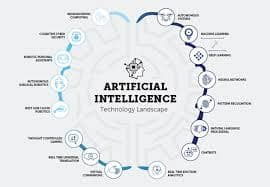
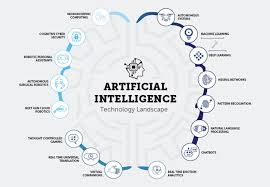
Site updated: 2024-12-03 21:07:36

diff --git a/2024/12/02/人工智能复习/index.html b/2024/12/02/人工智能复习/index.html
@@ -26,12 +26,12 @@
 <meta property="og:site_name" content="TAM CHEOK HANG">
 <meta property="og:description" content="这是本人在大二下考试前总结的内容，希望对大家有所帮助！">
 <meta property="og:locale" content="en_US">
-<meta property="og:image" content="https://tobytam23.github.io/img/1.png">
+<meta property="og:image" content="https://tobytam23.github.io/img/artificial_intelligence_compressed.jpg">
 <meta property="article:published_time" content="2024-12-02T14:45:00.000Z">
-<meta property="article:modified_time" content="2024-12-03T08:49:51.285Z">
+<meta property="article:modified_time" content="2024-12-03T13:07:19.976Z">
 <meta property="article:author" content="tanzhuoheng">
 <meta name="twitter:card" content="summary_large_image">
-<meta name="twitter:image" content="https://tobytam23.github.io/img/1.png">
+<meta name="twitter:image" content="https://tobytam23.github.io/img/artificial_intelligence_compressed.jpg">
   
   
   
@@ -525,7 +525,7 @@
 <li>定义：假设对方能总是做出最优的行动，己方总是做出能最小化对方获得的收益的行动，通过最小化对方的收益，可以最大化己方的收益。</li>
 <li>使用<strong>深度优先搜索</strong>。（模拟算法很重要）</li>
 </ol>
-<h4 id="剪枝"><a href="#剪枝" class="headerlink" title="剪枝"></a>剪枝</h4><p>只要计算节点n的一部分子节点就可以确定在<code>MiniMax</code>算法中我们不会考虑走到节点n了；如果已经确定节点n不会被考虑，那么也就不用继续计算n的子节点了。如下图：<code>x</code>和<code>y</code>已经不用被搜索了。<img src="/2024/12/02/%E4%BA%BA%E5%B7%A5%E6%99%BA%E8%83%BD%E5%A4%8D%E4%B9%A0/12/02/人工智能复习/undefined" srcset="/img/loading.gif" lazyload alt="image-20240621191942772" style="zoom:67%;"></p>
+<h4 id="剪枝"><a href="#剪枝" class="headerlink" title="剪枝"></a>剪枝</h4><p>只要计算节点n的一部分子节点就可以确定在<code>MiniMax</code>算法中我们不会考虑走到节点n了；如果已经确定节点n不会被考虑，那么也就不用继续计算n的子节点了。如下图：<code>x</code>和<code>y</code>已经不用被搜索了。<img src="/2024/12/02/人工智能复习/undefined" srcset="/img/loading.gif" lazyload alt="image-20240621191942772" style="zoom:67%;"></p>
 <ul>
 <li>MAX剪枝：对于Max节点n，如果它的α(子) ≥ β(父)的时候，就可以停止遍历n的子节点了。<img src="/2024/12/02/%E4%BA%BA%E5%B7%A5%E6%99%BA%E8%83%BD%E5%A4%8D%E4%B9%A0/Users\tam15\AppData\Roaming\Typora\typora-user-images\image-20240621192426769.png" srcset="/img/loading.gif" lazyload alt="image-20240621192426769"></li>
 <li>MIN剪枝：对于Min节点n，如果它的α(父) ≥ β(子)的时候，就可以停止遍历n的子节点了。<img src="/2024/12/02/%E4%BA%BA%E5%B7%A5%E6%99%BA%E8%83%BD%E5%A4%8D%E4%B9%A0/Users\tam15\AppData\Roaming\Typora\typora-user-images\image-20240621192631831.png" srcset="/img/loading.gif" lazyload alt="image-20240621192631831"></li>
@@ -613,11 +613,11 @@
 <li>极大似然法：就是先把式子列出来，然后对数，再对该式子求导并且等于0。<img src="/2024/12/02/%E4%BA%BA%E5%B7%A5%E6%99%BA%E8%83%BD%E5%A4%8D%E4%B9%A0/Users\tam15\AppData\Roaming\Typora\typora-user-images\image-20240623180513734.png" srcset="/img/loading.gif" lazyload alt="image-20240623180513734"></li>
 </ul>
 <h3 id="贝叶斯网络的D-分离"><a href="#贝叶斯网络的D-分离" class="headerlink" title="贝叶斯网络的D-分离"></a>贝叶斯网络的D-分离</h3><ul>
-<li><p>串形连接： 在串行连接中A通过事件B影响C，同样事件C也是用过事件B影响A。我们认为当<strong>证据B确定时</strong>，A、C条件独立。<img src="/2024/12/02/%E4%BA%BA%E5%B7%A5%E6%99%BA%E8%83%BD%E5%A4%8D%E4%B9%A0/12/02/人工智能复习" srcset="/img/loading.gif" lazyload alt="image-20200112230651132.png" style="zoom: 200%;"></p>
+<li><p>串形连接： 在串行连接中A通过事件B影响C，同样事件C也是用过事件B影响A。我们认为当<strong>证据B确定时</strong>，A、C条件独立。<img src="/2024/12/02/人工智能复习/" srcset="/img/loading.gif" lazyload alt="image-20200112230651132.png" style="zoom: 200%;"></p>
 </li>
-<li><p>共同的原因：<strong>给定父节点的前提下</strong>，子节点们条件独立。<img src="/2024/12/02/%E4%BA%BA%E5%B7%A5%E6%99%BA%E8%83%BD%E5%A4%8D%E4%B9%A0/12/02/人工智能复习" srcset="/img/loading.gif" lazyload alt="image-20200112231016234.png" style="zoom:200%;"></p>
+<li><p>共同的原因：<strong>给定父节点的前提下</strong>，子节点们条件独立。<img src="/2024/12/02/人工智能复习/" srcset="/img/loading.gif" lazyload alt="image-20200112231016234.png" style="zoom:200%;"></p>
 </li>
-<li><p>共同的作用：<strong>当不给定子节点时</strong>，父节点们条件独立。<img src="/2024/12/02/%E4%BA%BA%E5%B7%A5%E6%99%BA%E8%83%BD%E5%A4%8D%E4%B9%A0/12/02/人工智能复习" srcset="/img/loading.gif" lazyload alt="image-20200112231325308.png" style="zoom:200%;"></p>
+<li><p>共同的作用：<strong>当不给定子节点时</strong>，父节点们条件独立。<img src="/2024/12/02/人工智能复习/" srcset="/img/loading.gif" lazyload alt="image-20200112231325308.png" style="zoom:200%;"></p>
 </li>
 <li><p>若存在一条路径将这两个节点（直接）连通，则称这两个节点是<strong>相关</strong>的。若不存在这样的路径将这两个节 点连通，则这两个节点就是<strong>独立</strong>的。</p>
 </li>
@@ -664,7 +664,7 @@
 </li>
 </ol>
 </li>
-<li><p>分类图片如下：<img src="/2024/12/02/%E4%BA%BA%E5%B7%A5%E6%99%BA%E8%83%BD%E5%A4%8D%E4%B9%A0/12/02/人工智能复习/undefined" srcset="/img/loading.gif" lazyload alt="image-20240623210433383" style="zoom:67%;"></p>
+<li><p>分类图片如下：<img src="/2024/12/02/人工智能复习/undefined" srcset="/img/loading.gif" lazyload alt="image-20240623210433383" style="zoom:67%;"></p>
 </li>
 </ul>
 <h4 id="逻辑回归"><a href="#逻辑回归" class="headerlink" title="逻辑回归"></a>逻辑回归</h4><p>感知机算法只要计算的分数大于0输出标签为真，可是分数<strong>1</strong>和<strong>1000</strong>也是输出标签为真。</p>
@@ -697,14 +697,14 @@
 </li>
 </ul>
 <h4 id="人工神经网络"><a href="#人工神经网络" class="headerlink" title="人工神经网络"></a>人工神经网络</h4><h5 id="单层神经网络"><a href="#单层神经网络" class="headerlink" title="单层神经网络"></a>单层神经网络</h5><ul>
-<li>定义：一个基本的神经网络包括：<strong>输入</strong>、<strong>计算</strong>、<strong>输出</strong>。下图是一个典型的人工神经网络模型，它包含3个输入，1个 输出，以及2个计算功能。<img src="/2024/12/02/%E4%BA%BA%E5%B7%A5%E6%99%BA%E8%83%BD%E5%A4%8D%E4%B9%A0/12/02/人工智能复习/undefined" srcset="/img/loading.gif" lazyload alt="image-20240624000843701" style="zoom:67%;"></li>
+<li>定义：一个基本的神经网络包括：<strong>输入</strong>、<strong>计算</strong>、<strong>输出</strong>。下图是一个典型的人工神经网络模型，它包含3个输入，1个 输出，以及2个计算功能。<img src="/2024/12/02/人工智能复习/undefined" srcset="/img/loading.gif" lazyload alt="image-20240624000843701" style="zoom:67%;"></li>
 <li>人工神经元：人工神经网络中的计算单位。由下列部分组成：<ol>
 <li>输入信号xi</li>
 <li>一个激活层对输入信号乘上加权求和，神经元的激活层由加权输入的总和确定。</li>
 <li>一个阈值函数 f(x)，该函数通过确定激活是低于还是高于阈值来计算最终输出。</li>
 </ol>
 </li>
-<li>应用：可以实现“与”、“或”功能，可是不能处理异或。<img src="/2024/12/02/%E4%BA%BA%E5%B7%A5%E6%99%BA%E8%83%BD%E5%A4%8D%E4%B9%A0/12/02/人工智能复习/undefined" srcset="/img/loading.gif" lazyload alt="image-20240624002553421" style="zoom: 50%;"></li>
+<li>应用：可以实现“与”、“或”功能，可是不能处理异或。<img src="/2024/12/02/人工智能复习/undefined" srcset="/img/loading.gif" lazyload alt="image-20240624002553421" style="zoom: 50%;"></li>
 </ul>
 <h5 id="多层神经网络"><a href="#多层神经网络" class="headerlink" title="多层神经网络"></a>多层神经网络</h5><p>优势：单层神经网络只能处理线性问题，而两层神经网络可以无限逼近<strong>任意连续函数</strong>。面对复杂的非线性分类任务，带一个隐藏层的两层神经网络可以分类的很好。输入和输出节点之间的附加层称为<strong>隐藏层</strong>。</p>
 <p>原因：从输入层到隐藏层时， 数据发生了<strong>空间变换</strong>。这是因为输入层的阈值函数是<strong>非线性</strong>的，对数据进行了转换。</p>
@@ -721,7 +721,7 @@
 </li>
 </ol>
 <p>损失函数：定义为最小二乘法：<br>$$<br>E &#x3D; \frac{1}{2} e^2 &#x3D; \frac{1}{2} (T - O)^2<br>$$<br>为了使用梯度下降调整权重 wjk,我们首先计算在wjk 上误差E的偏导数：<br>$$<br>\begin{align*}<br>\frac{\partial E}{\partial w_{jk}} &amp;&#x3D; \frac{\partial E}{\partial e} \times \frac{\partial e}{\partial O_k} \times \frac{\partial O_k}{\partial w_{jk}} \<br>&amp;&#x3D; -\left( e \right) \times \left( O_k (1 - O_k) \right) \times \left( O_j \right) \<br>&amp;&#x3D; -(T_k - O_k) O_k (1 - O_k) O_j<br>\end{align*}<br>$$</p>
-<img src="/2024/12/02/%E4%BA%BA%E5%B7%A5%E6%99%BA%E8%83%BD%E5%A4%8D%E4%B9%A0/12/02/人工智能复习/undefined" srcset="/img/loading.gif" lazyload alt="image-20240624193053302" style="zoom:80%;">
+<img src="/2024/12/02/人工智能复习/undefined" srcset="/img/loading.gif" lazyload alt="image-20240624193053302" style="zoom:80%;">
 
 <p>前向传播输入：</p>
 <ul>
@@ -730,16 +730,16 @@
 </ul>
 <p>反向传播误差：</p>
 <ul>
-<li>对于<strong>输出层</strong>，定义误差为：<img src="/2024/12/02/%E4%BA%BA%E5%B7%A5%E6%99%BA%E8%83%BD%E5%A4%8D%E4%B9%A0/12/02/人工智能复习/undefined" srcset="/img/loading.gif" lazyload alt="image-20240624193737699" style="zoom:80%;"></li>
-<li>对于<strong>隐藏层</strong>，定义误差为：<img src="/2024/12/02/%E4%BA%BA%E5%B7%A5%E6%99%BA%E8%83%BD%E5%A4%8D%E4%B9%A0/12/02/人工智能复习/undefined" srcset="/img/loading.gif" lazyload alt="image-20240624193803486" style="zoom:80%;"></li>
-<li><strong>权重更新公式</strong>（利用梯度下降）：<img src="/2024/12/02/%E4%BA%BA%E5%B7%A5%E6%99%BA%E8%83%BD%E5%A4%8D%E4%B9%A0/12/02/人工智能复习/undefined" srcset="/img/loading.gif" lazyload alt="image-20240624193903303" style="zoom:80%;"></li>
+<li>对于<strong>输出层</strong>，定义误差为：<img src="/2024/12/02/人工智能复习/undefined" srcset="/img/loading.gif" lazyload alt="image-20240624193737699" style="zoom:80%;"></li>
+<li>对于<strong>隐藏层</strong>，定义误差为：<img src="/2024/12/02/人工智能复习/undefined" srcset="/img/loading.gif" lazyload alt="image-20240624193803486" style="zoom:80%;"></li>
+<li><strong>权重更新公式</strong>（利用梯度下降）：<img src="/2024/12/02/人工智能复习/undefined" srcset="/img/loading.gif" lazyload alt="image-20240624193903303" style="zoom:80%;"></li>
 <li>缺点：很容易梯度消失，每传递一层梯度就是原本的0.25倍。</li>
-<li><a target="_blank" rel="noopener" href="https://www.cnblogs.com/BlairGrowing/p/14982115.html">(<em>´∇｀</em>) 欢迎回来！ (cnblogs.com)</a>把这题刷一下基本没问题了(更改偏置b1和b2的时候，这个偏置项有点特殊，可以看成是一个隐藏层的节点进行处理，o1和o2的Err值都对它影响）<img src="/2024/12/02/%E4%BA%BA%E5%B7%A5%E6%99%BA%E8%83%BD%E5%A4%8D%E4%B9%A0/12/02/人工智能复习/undefined" srcset="/img/loading.gif" lazyload alt="b9a535cdb2ab277d41473d468584db9" style="zoom: 50%;"></li>
+<li><a target="_blank" rel="noopener" href="https://www.cnblogs.com/BlairGrowing/p/14982115.html">(<em>´∇｀</em>) 欢迎回来！ (cnblogs.com)</a>把这题刷一下基本没问题了(更改偏置b1和b2的时候，这个偏置项有点特殊，可以看成是一个隐藏层的节点进行处理，o1和o2的Err值都对它影响）<img src="/2024/12/02/人工智能复习/undefined" srcset="/img/loading.gif" lazyload alt="b9a535cdb2ab277d41473d468584db9" style="zoom: 50%;"></li>
 </ul>
 <h4 id="卷积神经网络-CNN"><a href="#卷积神经网络-CNN" class="headerlink" title="卷积神经网络(CNN)"></a>卷积神经网络(CNN)</h4><ul>
 <li><p>是<strong>深度学习</strong>算法。主要用于图像识别。</p>
 </li>
-<li><p>卷积计算：如下图<img src="/2024/12/02/%E4%BA%BA%E5%B7%A5%E6%99%BA%E8%83%BD%E5%A4%8D%E4%B9%A0/12/02/人工智能复习" srcset="/img/loading.gif" lazyload alt="img" style="zoom:80%;"></p>
+<li><p>卷积计算：如下图<img src="/2024/12/02/人工智能复习/" srcset="/img/loading.gif" lazyload alt="img" style="zoom:80%;"></p>
 <p>描述卷积的四个量：卷积核个数、<strong>卷积核大小f</strong>、<strong>填充0值p</strong>、<strong>步长s</strong>。</p>
 <p>假设原本大小为拿，卷积结果大小为(n可以是高或者宽)<br>$$<br>\frac{n + 2p - f}{s} + 1<br>$$</p>
 </li>
@@ -771,17 +771,17 @@
 </li>
 <li><p>因为其余的神经网络输出只和当前时刻网络的输入相关。可是像预测天气这种问题还是很需要<strong>之前</strong>的数据的。这是一个<strong>有记忆</strong>的神经网络。<img src="https://img-blog.csdnimg.cn/a9f135e2447f4c91aceb93f646580000.gif" srcset="/img/loading.gif" lazyload alt="img"></p>
 </li>
-<li><p>例如像判断广州是目的地还是出发地，需要看前一个英文单词，所以需要用到之前的记忆。<img src="/2024/12/02/%E4%BA%BA%E5%B7%A5%E6%99%BA%E8%83%BD%E5%A4%8D%E4%B9%A0/12/02/人工智能复习/undefined" srcset="/img/loading.gif" lazyload alt="image-20240624215758219" style="zoom:50%;"></p>
+<li><p>例如像判断广州是目的地还是出发地，需要看前一个英文单词，所以需要用到之前的记忆。<img src="/2024/12/02/人工智能复习/undefined" srcset="/img/loading.gif" lazyload alt="image-20240624215758219" style="zoom:50%;"></p>
 </li>
-<li><p>简单来说，就是隐藏层的输出还存储在记忆中，并且记忆内容作为隐藏层的输入。<img src="/2024/12/02/%E4%BA%BA%E5%B7%A5%E6%99%BA%E8%83%BD%E5%A4%8D%E4%B9%A0/12/02/人工智能复习/undefined" srcset="/img/loading.gif" lazyload alt="image-20240624214743675" style="zoom:50%;"></p>
+<li><p>简单来说，就是隐藏层的输出还存储在记忆中，并且记忆内容作为隐藏层的输入。<img src="/2024/12/02/人工智能复习/undefined" srcset="/img/loading.gif" lazyload alt="image-20240624214743675" style="zoom:50%;"></p>
 </li>
 <li><p>例子如下：假设所有权重都是1，激活函数都是线性的。</p>
 </li>
-<li><p>第一步：<img src="/2024/12/02/%E4%BA%BA%E5%B7%A5%E6%99%BA%E8%83%BD%E5%A4%8D%E4%B9%A0/12/02/人工智能复习/undefined" srcset="/img/loading.gif" lazyload alt="image-20240624215015924" style="zoom:50%;"></p>
+<li><p>第一步：<img src="/2024/12/02/人工智能复习/undefined" srcset="/img/loading.gif" lazyload alt="image-20240624215015924" style="zoom:50%;"></p>
 </li>
-<li><p>第二步：<img src="/2024/12/02/%E4%BA%BA%E5%B7%A5%E6%99%BA%E8%83%BD%E5%A4%8D%E4%B9%A0/12/02/人工智能复习/undefined" srcset="/img/loading.gif" lazyload alt="image-20240624215128804" style="zoom:50%;"></p>
+<li><p>第二步：<img src="/2024/12/02/人工智能复习/undefined" srcset="/img/loading.gif" lazyload alt="image-20240624215128804" style="zoom:50%;"></p>
 </li>
-<li><p>第三步：<img src="/2024/12/02/%E4%BA%BA%E5%B7%A5%E6%99%BA%E8%83%BD%E5%A4%8D%E4%B9%A0/12/02/人工智能复习/undefined" srcset="/img/loading.gif" lazyload alt="image-20240624215206066" style="zoom:50%;"></p>
+<li><p>第三步：<img src="/2024/12/02/人工智能复习/undefined" srcset="/img/loading.gif" lazyload alt="image-20240624215206066" style="zoom:50%;"></p>
 </li>
 <li><p><strong>不同的</strong>输入顺序会影响到循环神经网络的输出，因为是<strong>有记忆</strong>的！</p>
 </li>
@@ -850,7 +850,7 @@
 <p>强化学习的基本目标是：<strong>找到最大化奖励的策略</strong>。</p>
 <ul>
 <li><p>状态值函数V(s)：用于评断当前状态s在给定策略π下，未来累计的期望值。<br>$$<br>V^{\pi}(s) &#x3D; \mathbb{E}<em>{\pi} \left[ \sum</em>{t&#x3D;0}^{\infty} \gamma^t R_{t+1} \mid S_0 &#x3D; s \right]<br>$$</p>
-<img src="/2024/12/02/%E4%BA%BA%E5%B7%A5%E6%99%BA%E8%83%BD%E5%A4%8D%E4%B9%A0/12/02/人工智能复习/undefined" srcset="/img/loading.gif" lazyload alt="image-20240625155050199" style="zoom:50%;">
+<img src="/2024/12/02/人工智能复习/undefined" srcset="/img/loading.gif" lazyload alt="image-20240625155050199" style="zoom:50%;">
 
 <p>两条公式是<strong>等价</strong>的。</p>
 </li>

diff --git a/index.html b/index.html
@@ -304,7 +304,7 @@
     
       <div class="col-12 col-md-4 m-auto index-img">
         <a href="/2024/12/02/%E4%BA%BA%E5%B7%A5%E6%99%BA%E8%83%BD%E5%A4%8D%E4%B9%A0/" target="_self">
-          <img src="/img/1.png" srcset="/img/loading.gif" lazyload alt="人工智能复习">
+          <img src="/img/artificial_intelligence_compressed.jpg" srcset="/img/loading.gif" lazyload alt="人工智能复习">
         </a>
       </div>
     
